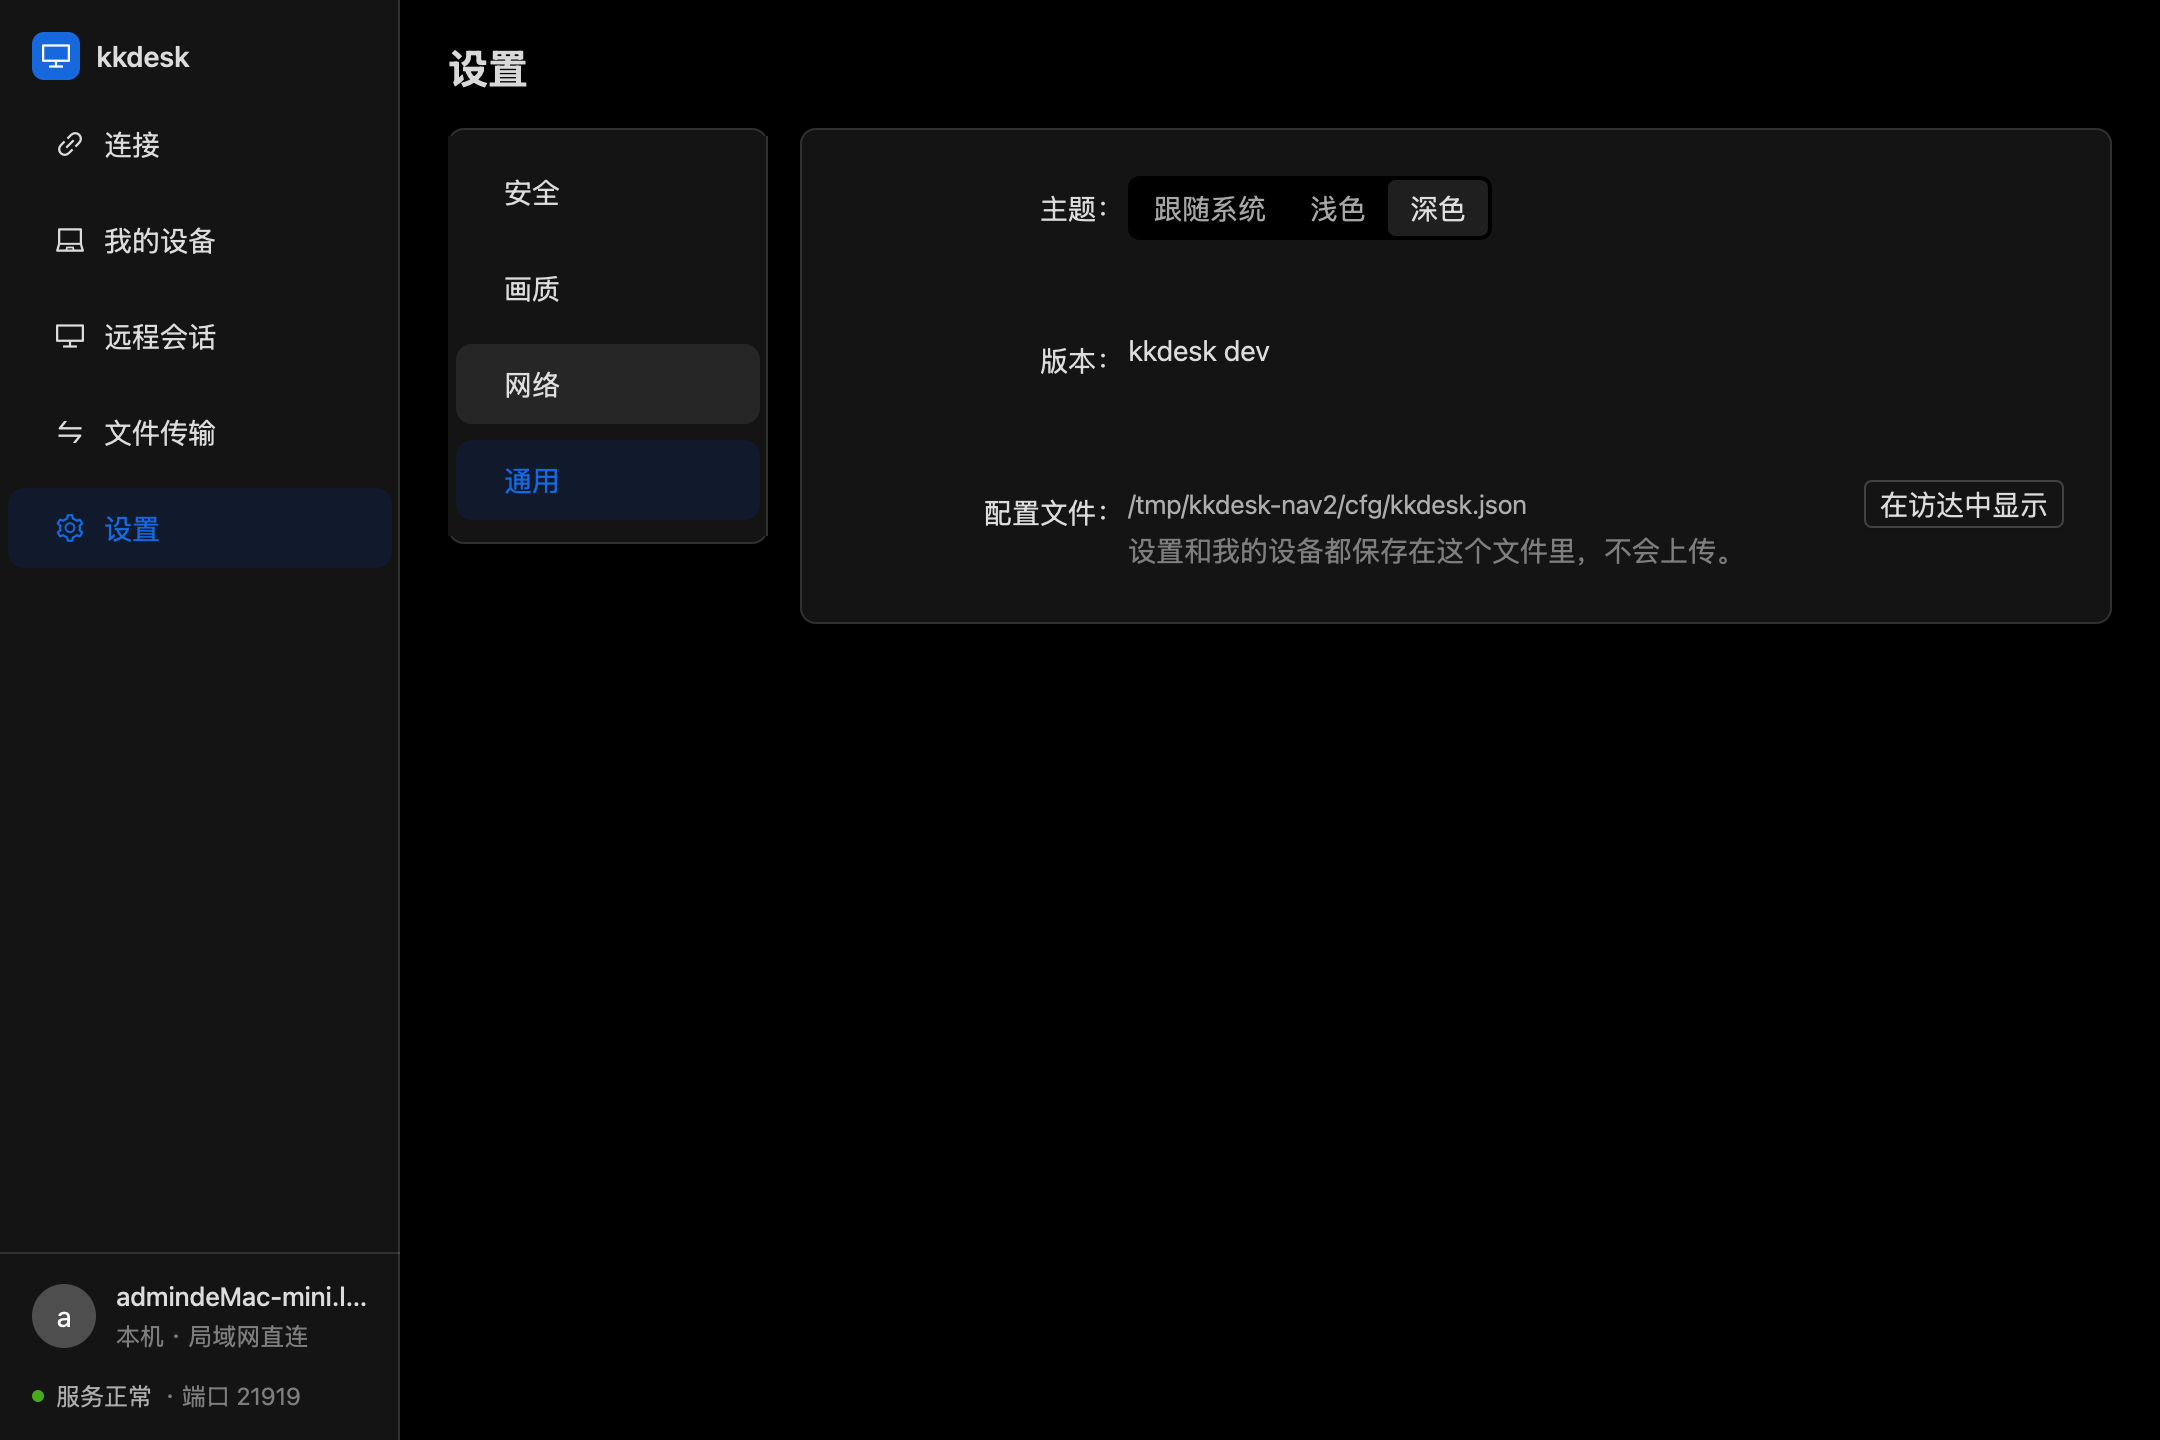
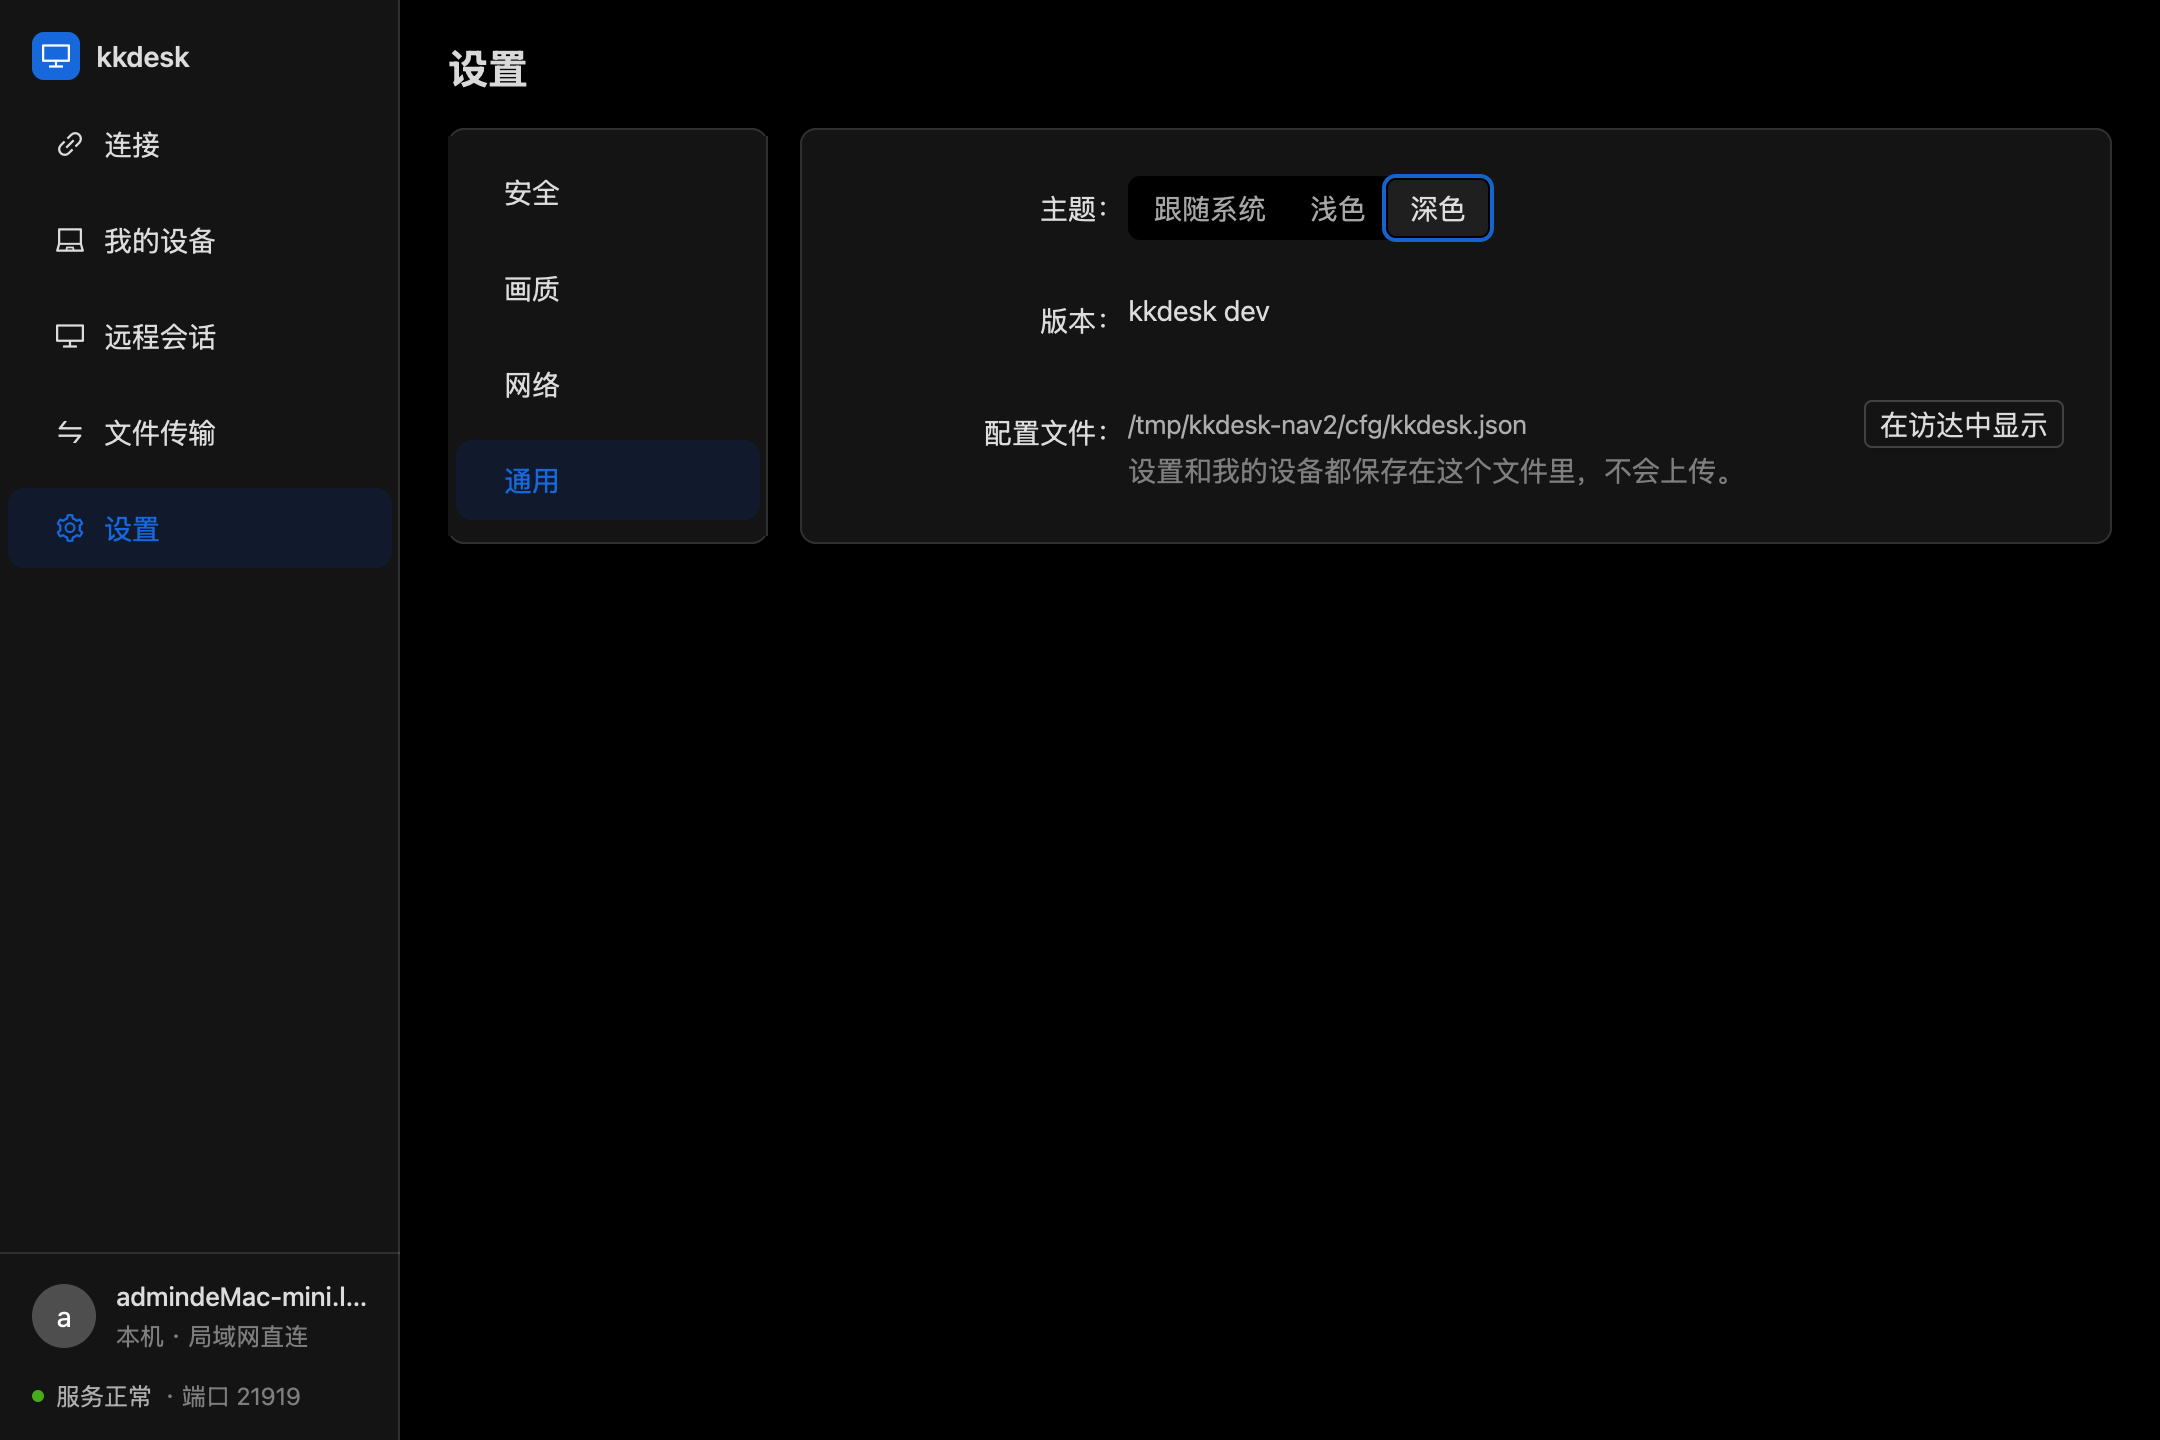
fix(ui): space only settings items that have a help line
Items without help already keep the form's 24 pt bottom margin; the
blanket gap doubled it. The nav e2e test starts from a clean config.

diff --git a/internal/ui/settings_page.go b/internal/ui/settings_page.go
@@ -102,7 +102,7 @@ func (m *Main) settingsPage(c *ui.Context, hs app.HostState) {
 			ui.Menu(c, settingsNav, &s.tab).Show()
 		}, layout.W(160), layout.Padding(insets(4, 0, 4, 0)))
 		panel(c, func() {
-			f := ui.Form(c).LabelWidth(140).Layout(layout.Gap(20)) // room between items, as Ant forms have
+			f := ui.Form(c).LabelWidth(140)
 			f.Body(func() {
 				switch s.tab {
 				case "quality":
@@ -126,6 +126,7 @@ func (m *Main) securitySettings(c *ui.Context, f *ui.FormW, hs app.HostState) {
 			m.setRotate(c, s.rotate)
 		}
 	})
+	helpGap(c)
 	it := f.Item("固定密码")
 	switch {
 	case s.fixedErr != "":
@@ -163,12 +164,14 @@ func (m *Main) securitySettings(c *ui.Context, f *ui.FormW, hs app.HostState) {
 			}
 		}, layout.Gap(8), layout.Middle(), layout.WrapItems())
 	})
+	helpGap(c)
 	f.Item("连接前需要确认").Help("关闭后，密码正确的连接会被自动接受。").Body(func() {
 		switchRow(c, &s.confirm, "别人连接时弹窗，由我决定是否接受", func(on bool) {
 			m.update(c, func(st *config.Settings) { st.Confirm = on })
 			m.o.Host.SetAutoAccept(!on)
 		})
 	})
+	helpGap(c)
 	f.Item("允许被远程控制").Help("启动时是否开启被控；连接页的开关只改变本次运行。").Body(func() {
 		switchRow(c, &s.allow, "启动后允许其他电脑连接本机", func(on bool) {
 			m.update(c, func(st *config.Settings) { st.AllowRemote = on })
@@ -196,6 +199,7 @@ func (m *Main) qualitySettings(c *ui.Context, f *ui.FormW) {
 			m.o.Host.SetQuality(fps, m.o.Store.Settings().BitrateMbps)
 		}
 	})
+	helpGap(c)
 	f.Item("默认码率").Help("自动目前固定为 8 Mbps。").Body(func() {
 		if ui.Select(c, &s.bitrate, bitrateOpts()).Width(200).A11yLabel("默认码率").Changed() {
 			b, _ := strconv.Atoi(s.bitrate)
@@ -227,6 +231,7 @@ func (m *Main) networkSettings(c *ui.Context, f *ui.FormW, hs app.HostState) {
 			ui.Text(c, "当前 "+itoa(hs.Port)).Size(12).Tertiary()
 		}, layout.Gap(8), layout.Middle())
 	})
+	helpGap(c)
 	f.Item("本机地址").Help("把地址和端口告诉对方即可连接。").Body(func() {
 		ui.Column(c, func() {
 			if len(hs.Addrs) == 0 {
@@ -295,3 +300,8 @@ func (m *Main) generalSettings(c *ui.Context, f *ui.FormW) {
 		}, layout.Gap(8), layout.Middle())
 	})
 }
+
+// helpGap separates an item with a help line from the next one. Tango's form
+// (like Ant's) lets the help line take the item's bottom margin, which
+// leaves the next label right under the help text.
+func helpGap(c *ui.Context) { ui.Div(c, layout.H(12)) }

diff --git a/e2e_nav_test.go b/e2e_nav_test.go
@@ -30,6 +30,13 @@ func TestE2ENav(t *testing.T) {
 	if root == "" {
 		t.Skip("KKDESK_E2E_NAV not set")
 	}
+	// Start from scratch: a configuration left by an earlier run (devices,
+	// theme, port) would change what the pages show.
+	for _, d := range []string{"cfg", "dst"} {
+		if err := os.RemoveAll(filepath.Join(root, d)); err != nil {
+			t.Fatal(err)
+		}
+	}
 	shots := os.Getenv("KKDESK_E2E_SHOTS")
 	shot := func(w *automation.Window, name string) {
 		if shots != "" {
